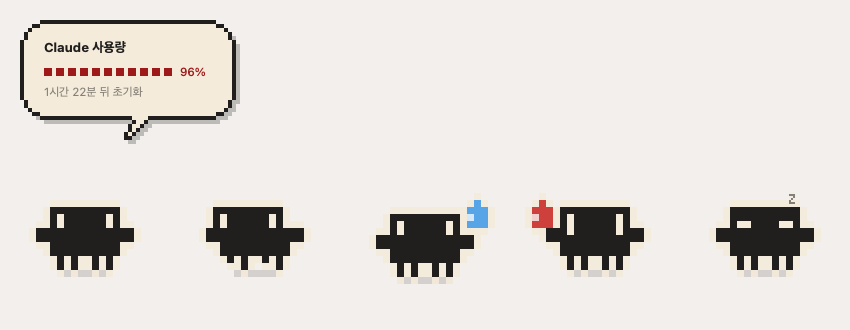
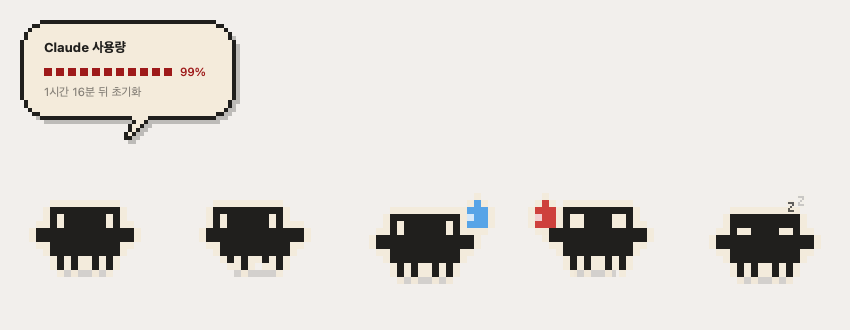
당황한 상태로 걸을 때 눈이 어긋나던 문제 수정
눈을 아래로 한 칸 늘리면서 그 칸을 팔 줄에 뒀는데, 걸을 때는 윗몸 세 줄만
기울기 때문에 아래 칸만 제자리에 남아 눈이 계단처럼 잘려 보였다.
눈을 옆으로 넓히는 방식으로 바꿔 세 줄 안에서만 커지게 했다.
도안을 확인하는 tests/test_sprite_frames.py 를 추가했다.

diff --git a/tests/test_sprite_frames.py b/tests/test_sprite_frames.py
@@ -1,0 +1,57 @@
+"""마스코트 도안이 상태·방향에 따라 어떻게 나오는지 눈으로 확인한다.
+
+걸을 때 윗몸만 기울기 때문에, 눈처럼 여러 줄에 걸친 부분은 함께 움직이지
+않으면 어긋난다. 도안을 고칠 때 이 출력으로 확인한다.
+
+    ~/.claude-usage-buddy/venv/bin/python tests/test_sprite_frames.py
+"""
+
+import sys
+from pathlib import Path
+
+sys.path.insert(0, str(Path(__file__).resolve().parent.parent))
+
+from buddy import sprite  # noqa: E402
+
+CASES = [
+    ("평온 · 서 있음", "happy", False, 1, 0.0),
+    ("평온 · 눈 깜빡임 · 걷기", "happy", True, 1, 1.0),
+    ("바쁨 · 오른쪽 걷기", "busy", True, 1, 0.0),
+    ("바쁨 · 왼쪽 걷기", "busy", True, -1, 0.0),
+    ("땀 · 걷기", "worried", True, 1, 0.0),
+    ("당황 · 서 있음", "panic", False, 1, 0.0),
+    ("당황 · 오른쪽 걷기", "panic", True, 1, 0.0),
+    ("당황 · 왼쪽 걷기", "panic", True, -1, 0.0),
+    ("잠", "sleepy", False, 1, 0.0),
+]
+
+
+def eye_columns(rows: list[str]) -> list[set[int]]:
+    """눈('o')이 있는 칸 번호를 줄마다 모은다."""
+    return [{i for i, ch in enumerate(row) if ch == "o"} for row in rows]
+
+
+def main() -> int:
+    failures = 0
+    for label, mood, walking, facing, blink in CASES:
+        st = sprite.MascotState()
+        st.mood, st.walking, st.facing, st.blink = mood, walking, facing, blink
+        rows = sprite.frame_rows(st)
+
+        print(f"--- {label} ---")
+        for row in rows:
+            print("   " + row.replace("#", "█").replace("o", "·"))
+
+        # 눈이 여러 줄에 걸쳐 있다면 줄마다 같은 칸에 있어야 한다
+        eyes = [cols for cols in eye_columns(rows) if cols]
+        if len(eyes) > 1 and any(cols != eyes[0] for cols in eyes[1:]):
+            print(f"   !! 눈이 줄마다 어긋납니다: {eyes}")
+            failures += 1
+
+    print()
+    print("모든 도안 정상" if not failures else f"{failures}개 도안에 문제")
+    return 1 if failures else 0
+
+
+if __name__ == "__main__":
+    raise SystemExit(main())

diff --git a/buddy/sprite.py b/buddy/sprite.py
@@ -110,8 +110,10 @@ def frame_rows(st: MascotState) -> list[str]:
             # 자는 눈은 가로로 한 칸 더 길게 그어서 감은 티가 나게 한다
             rows[2] = _set(_set(rows[2], 4, "o"), 9, "o")
     elif st.mood == "panic":
-        # 놀라면 눈이 아래로 한 칸 더 커진다
-        rows[3] = _set(_set(rows[3], 3, "o"), 10, "o")
+        # 놀라면 눈이 옆으로 한 칸씩 커진다.
+        # 아래(팔 줄)로 늘리면 걸을 때 윗몸만 기울면서 눈이 어긋난다.
+        rows[1] = _set(_set(rows[1], 4, "o"), 9, "o")
+        rows[2] = _set(_set(rows[2], 4, "o"), 9, "o")
 
     # 걸을 때는 윗몸을 진행 방향으로 한 칸 기울인다
     if st.walking:
